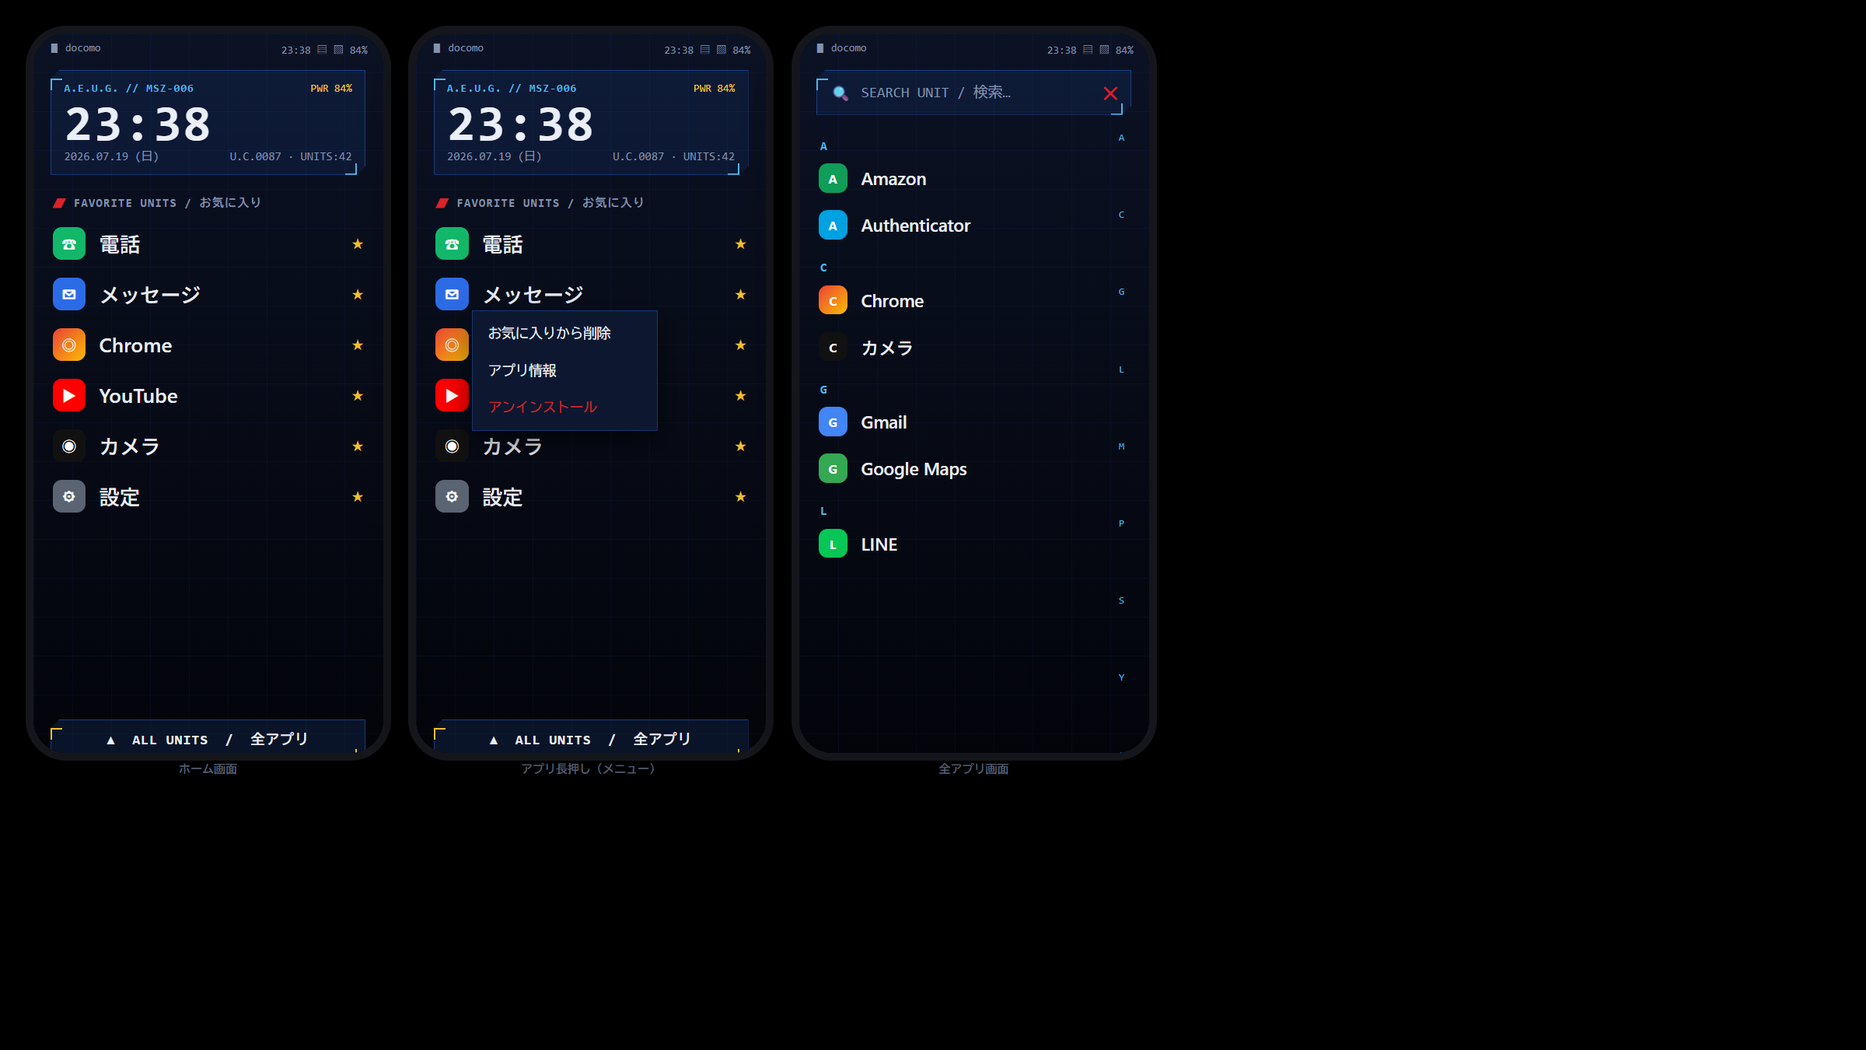
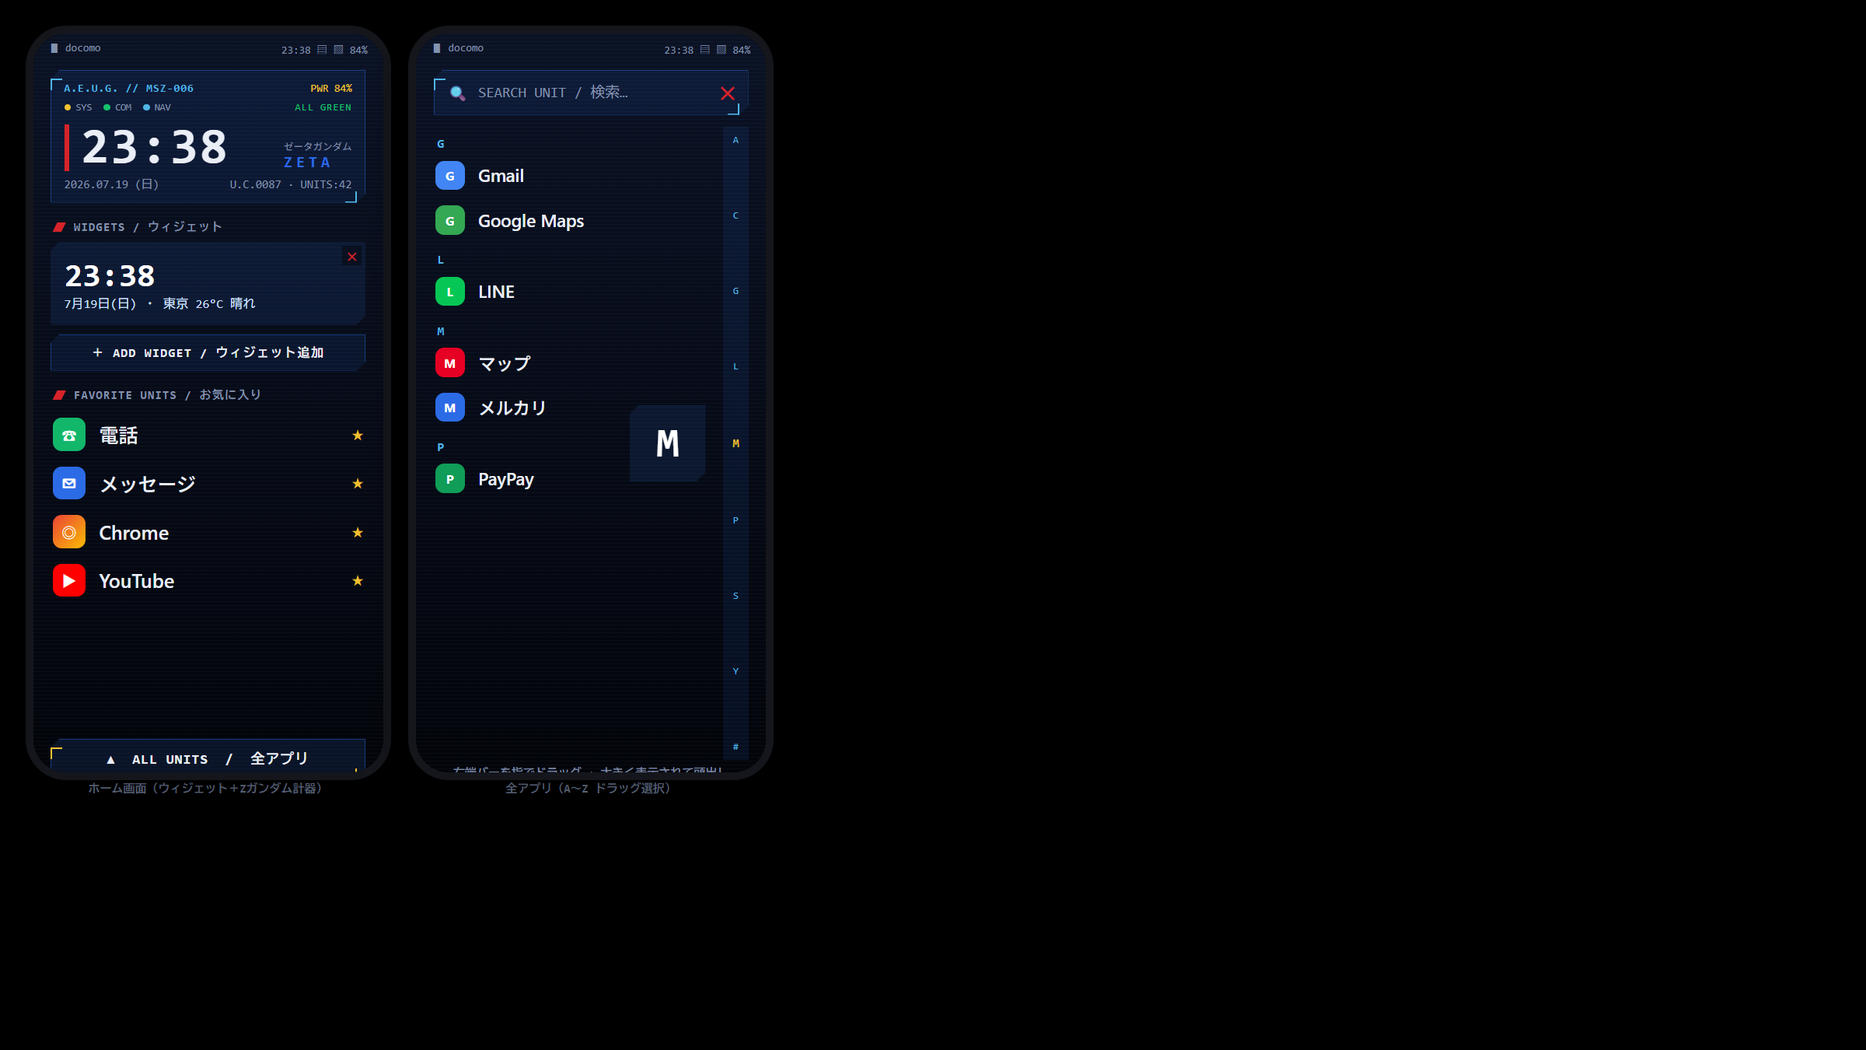
Pin favorite apps above A-Z in the all-apps list

Changed region(s): [[0.0, 0.0, 0.625, 0.7778], [0.0312, 0.0933, 0.1875, 0.5911], [0.3438, 0.1244, 0.375, 0.1556]]

diff --git a/preview/preview.html b/preview/preview.html
@@ -6,7 +6,7 @@
   :root{
     --bg:#04060C; --scrim1:#0B1224; --scrim2:#03040A;
     --blue:#2C6BE6; --cyan:#4FB6E6; --red:#D8232A; --yellow:#F2C230;
-    --white:#EAEEF6; --dim:#8393AE;
+    --green:#15C26B; --white:#EAEEF6; --dim:#8393AE;
     --panel:rgba(44,107,230,.10); --panelStrong:rgba(22,48,94,.35);
     --border:rgba(44,107,230,.45);
     --mono:"Consolas","SF Mono","DejaVu Sans Mono",monospace;
@@ -14,21 +14,17 @@
   *{box-sizing:border-box;margin:0;padding:0}
   body{background:#000;display:flex;gap:34px;padding:34px;font-family:Segoe UI,Roboto,Arial,sans-serif}
   .phone{
-    width:360px;height:740px;border-radius:34px;overflow:hidden;position:relative;
+    width:360px;height:760px;border-radius:34px;overflow:hidden;position:relative;
     background:linear-gradient(180deg,var(--scrim1),var(--scrim2));
     box-shadow:0 0 0 8px #14161c,0 20px 60px rgba(0,0,0,.6);
   }
-  /* faint grid */
-  .phone::before{content:"";position:absolute;inset:0;
-    background-image:linear-gradient(rgba(44,107,230,.06) 1px,transparent 1px),
-                     linear-gradient(90deg,rgba(44,107,230,.06) 1px,transparent 1px);
-    background-size:40px 40px;pointer-events:none}
+  .phone::before{content:"";position:absolute;inset:0;pointer-events:none;
+    background:repeating-linear-gradient(180deg,rgba(79,182,230,.05) 0 1px,transparent 1px 4px)}
   .statusbar{display:flex;justify-content:space-between;color:var(--dim);
     font-family:var(--mono);font-size:11px;padding:8px 16px 0}
   .wrap{position:relative;padding:6px 18px 16px;height:100%;display:flex;flex-direction:column}
 
-  .hud{position:relative;padding:12px 14px;margin-top:8px;
-    background:var(--panel);
+  .hud{position:relative;padding:12px 14px;margin-top:8px;background:var(--panel);
     clip-path:polygon(9px 0,100% 0,100% calc(100% - 9px),calc(100% - 9px) 100%,0 100%,0 9px);
     outline:1px solid var(--border);outline-offset:-1px}
   .hud.strong{background:var(--panelStrong)}
@@ -37,144 +33,139 @@
   .brk.br{bottom:0;right:9px;border-bottom:2px solid var(--cyan);border-right:2px solid var(--cyan)}
   .brk.y.tl{border-color:var(--yellow)} .brk.y.br{border-color:var(--yellow)}
 
-  .row1{display:flex;justify-content:space-between;align-items:center}
+  .row{display:flex;align-items:center}
+  .between{justify-content:space-between}
   .tag{color:var(--cyan);font-family:var(--mono);font-size:11px;font-weight:700;letter-spacing:1px}
   .pwr{color:var(--yellow);font-family:var(--mono);font-size:11px}
-  .clock{color:var(--white);font-family:var(--mono);font-size:52px;font-weight:800;letter-spacing:2px;line-height:1.05;margin-top:2px}
-  .row2{display:flex;justify-content:space-between;color:var(--dim);font-family:var(--mono);font-size:12px}
+  .dot{width:7px;height:7px;border-radius:50%;display:inline-block;margin-right:5px}
+  .st{color:var(--dim);font-family:var(--mono);font-size:10px;margin-right:12px;display:flex;align-items:center}
+  .green{color:var(--green);font-family:var(--mono);font-size:10px;letter-spacing:1px}
+  .hazard{width:5px;height:48px;background:var(--red);margin-right:12px}
+  .clock{color:var(--white);font-family:var(--mono);font-size:52px;font-weight:800;letter-spacing:2px;line-height:1}
+  .zeta{color:var(--blue);font-family:var(--mono);font-size:16px;font-weight:800;letter-spacing:4px}
+  .kana{color:var(--dim);font-size:10px;text-align:right}
+  .sub{display:flex;justify-content:space-between;color:var(--dim);font-family:var(--mono);font-size:12px;margin-top:6px}
 
-  .section{display:flex;align-items:center;gap:8px;margin:22px 2px 8px}
-  .skew{width:14px;height:10px;background:var(--red);
-    clip-path:polygon(5px 0,100% 0,calc(100% - 5px) 100%,0 100%)}
+  .section{display:flex;align-items:center;gap:8px;margin:18px 2px 8px}
+  .skew{width:14px;height:10px;background:var(--red);clip-path:polygon(5px 0,100% 0,calc(100% - 5px) 100%,0 100%)}
   .section span{color:var(--dim);font-family:var(--mono);font-size:12px;font-weight:700;letter-spacing:1px}
 
-  .app{display:flex;align-items:center;gap:14px;padding:9px 2px}
-  .ic{width:34px;height:34px;border-radius:9px;flex:0 0 auto;display:flex;align-items:center;justify-content:center;
-    color:#fff;font-weight:700;font-size:15px}
-  .app .nm{color:var(--white);font-size:21px;font-weight:500;flex:1;white-space:nowrap;overflow:hidden;text-overflow:ellipsis}
+  .widget{position:relative;background:var(--panelStrong);outline:1px solid var(--border);padding:14px;
+    clip-path:polygon(9px 0,100% 0,100% calc(100% - 9px),calc(100% - 9px) 100%,0 100%,0 9px)}
+  .widget .wclock{color:#fff;font:800 34px var(--mono)}
+  .widget .wsub{color:#cfe0ff;font:13px var(--mono);margin-top:2px}
+  .widget .wx{position:absolute;top:4px;right:4px;width:20px;height:20px;background:rgba(0,0,0,.4);color:var(--red);
+    display:flex;align-items:center;justify-content:center;font-weight:700;font-size:11px}
+
+  .addbtn{position:relative;text-align:center;padding:11px;margin-top:10px;background:var(--panel);
+    color:var(--white);font-family:var(--mono);font-weight:700;letter-spacing:1px;font-size:13px;
+    clip-path:polygon(9px 0,100% 0,100% calc(100% - 9px),calc(100% - 9px) 100%,0 100%,0 9px);
+    outline:1px solid var(--border);outline-offset:-1px}
+
+  .app{display:flex;align-items:center;gap:14px;padding:8px 2px}
+  .ic{width:34px;height:34px;border-radius:9px;flex:0 0 auto;display:flex;align-items:center;justify-content:center;color:#fff;font-weight:700;font-size:15px}
+  .app .nm{color:var(--white);font-size:20px;font-weight:500;flex:1}
   .star{color:var(--yellow);font-size:12px}
   .small .ic{width:30px;height:30px;font-size:13px}
   .small .nm{font-size:18px}
 
   .spacer{flex:1}
-  .allbtn{position:relative;text-align:center;padding:13px;background:var(--panelStrong);
-    color:var(--white);font-family:var(--mono);font-weight:700;letter-spacing:1px;font-size:14px;
+  .allbtn{position:relative;text-align:center;padding:13px;background:var(--panelStrong);color:var(--white);
+    font-family:var(--mono);font-weight:700;letter-spacing:1px;font-size:14px;
     clip-path:polygon(9px 0,100% 0,100% calc(100% - 9px),calc(100% - 9px) 100%,0 100%,0 9px);
     outline:1px solid var(--border);outline-offset:-1px}
 
-  /* all apps */
   .search{position:relative;display:flex;align-items:center;gap:10px;padding:11px 14px;margin-top:8px;background:var(--panel);
-    clip-path:polygon(9px 0,100% 0,100% calc(100% - 9px),calc(100% - 9px) 100%,0 100%,0 9px);
-    outline:1px solid var(--border);outline-offset:-1px}
+    clip-path:polygon(9px 0,100% 0,100% calc(100% - 9px),calc(100% - 9px) 100%,0 100%,0 9px);outline:1px solid var(--border);outline-offset:-1px}
   .search .ph{color:var(--dim);font-family:var(--mono);font-size:15px;flex:1}
   .search .x{color:var(--red);font-weight:700;font-size:18px}
   .list{position:relative;display:flex;margin-top:12px;flex:1;overflow:hidden}
   .col{flex:1}
-  .hdr{color:var(--cyan);font-family:var(--mono);font-size:13px;font-weight:700;margin:12px 0 2px 4px}
-  .az{width:20px;display:flex;flex-direction:column;justify-content:space-between;align-items:center;padding-top:6px}
+  .hdr{color:var(--cyan);font-family:var(--mono);font-size:13px;font-weight:700;margin:10px 0 2px 4px}
+  .az{width:26px;background:var(--panel);display:flex;flex-direction:column;justify-content:space-between;align-items:center;padding:8px 0}
   .az b{color:var(--cyan);font-family:var(--mono);font-size:10px;font-weight:400}
-  .title{position:absolute;bottom:8px;left:0;right:0;text-align:center;color:#555;font-family:var(--mono);font-size:11px}
+  .az b.on{color:var(--yellow);font-weight:700;font-size:12px}
+  .bubble{position:absolute;right:44px;top:50%;transform:translateY(-50%);width:78px;height:78px;background:var(--panelStrong);
+    outline:1px solid var(--border);display:flex;align-items:center;justify-content:center;color:#fff;font:800 42px var(--mono);
+    clip-path:polygon(9px 0,100% 0,100% calc(100% - 9px),calc(100% - 9px) 100%,0 100%,0 9px)}
   .label{color:#7c86a0;font:600 12px var(--mono);text-align:center;margin-top:10px}
-  .menu{position:absolute;left:40px;top:44px;z-index:5;min-width:190px;padding:4px 0;
-    background:#0d1830;outline:1px solid var(--border);box-shadow:0 10px 30px rgba(0,0,0,.6)}
-  .menu .mi{color:var(--white);font-family:var(--mono);font-size:14px;padding:11px 16px}
-  .menu .mi.red{color:var(--red)}
 </style>
 </head>
 <body>
 
-  <!-- ================= HOME ================= -->
+  <!-- ============ HOME (widgets + Zeta HUD) ============ -->
   <div>
   <div class="phone">
     <div class="statusbar"><span>▮ docomo</span><span>23:38  ▤ ▨ 84%</span></div>
     <div class="wrap">
       <div class="hud">
         <span class="brk tl"></span><span class="brk br"></span>
-        <div class="row1"><div class="tag">A.E.U.G. // MSZ-006</div><div class="pwr">PWR 84%</div></div>
-        <div class="clock">23:38</div>
-        <div class="row2"><span>2026.07.19 (日)</span><span>U.C.0087 · UNITS:42</span></div>
+        <div class="row between"><div class="tag">A.E.U.G. // MSZ-006</div><div class="pwr">PWR 84%</div></div>
+        <div class="row" style="margin-top:8px">
+          <span class="st"><i class="dot" style="background:var(--yellow)"></i>SYS</span>
+          <span class="st"><i class="dot" style="background:var(--green)"></i>COM</span>
+          <span class="st"><i class="dot" style="background:var(--cyan)"></i>NAV</span>
+          <span class="spacer"></span><span class="green">ALL GREEN</span>
+        </div>
+        <div class="row" style="margin-top:8px;align-items:flex-end">
+          <div class="hazard"></div>
+          <div class="clock">23:38</div>
+          <span class="spacer"></span>
+          <div><div class="kana">ゼータガンダム</div><div class="zeta">ZETA</div></div>
+        </div>
+        <div class="sub"><span>2026.07.19 (日)</span><span>U.C.0087 · UNITS:42</span></div>
       </div>
 
-      <div class="section"><span class="skew"></span><span>FAVORITE UNITS / お気に入り</span></div>
+      <div class="section"><span class="skew"></span><span>WIDGETS / ウィジェット</span></div>
+      <div class="widget">
+        <div class="wx">✕</div>
+        <div class="wclock">23:38</div>
+        <div class="wsub">7月19日(日) ・ 東京 26°C 晴れ</div>
+      </div>
+      <div class="addbtn">＋ ADD WIDGET / ウィジェット追加</div>
 
+      <div class="section"><span class="skew"></span><span>FAVORITE UNITS / お気に入り</span></div>
       <div class="app"><div class="ic" style="background:#12B76A">☎</div><div class="nm">電話</div><span class="star">★</span></div>
       <div class="app"><div class="ic" style="background:#2C6BE6">✉</div><div class="nm">メッセージ</div><span class="star">★</span></div>
       <div class="app"><div class="ic" style="background:linear-gradient(135deg,#EA4335,#FBBC05)">◎</div><div class="nm">Chrome</div><span class="star">★</span></div>
       <div class="app"><div class="ic" style="background:#FF0000">▶</div><div class="nm">YouTube</div><span class="star">★</span></div>
-      <div class="app"><div class="ic" style="background:#111">◉</div><div class="nm">カメラ</div><span class="star">★</span></div>
-      <div class="app"><div class="ic" style="background:#5A6472">⚙</div><div class="nm">設定</div><span class="star">★</span></div>
 
       <div class="spacer"></div>
       <div class="allbtn"><span class="brk y tl"></span><span class="brk y br"></span>▲&nbsp;&nbsp;ALL UNITS&nbsp;&nbsp;/&nbsp;&nbsp;全アプリ</div>
     </div>
   </div>
-  <div class="label">ホーム画面</div>
+  <div class="label">ホーム画面（ウィジェット＋Zガンダム計器）</div>
   </div>
 
-  <!-- ================= LONG PRESS MENU ================= -->
+  <!-- ============ ALL APPS (A-Z drag) ============ -->
   <div>
   <div class="phone">
     <div class="statusbar"><span>▮ docomo</span><span>23:38  ▤ ▨ 84%</span></div>
     <div class="wrap">
-      <div class="hud">
-        <span class="brk tl"></span><span class="brk br"></span>
-        <div class="row1"><div class="tag">A.E.U.G. // MSZ-006</div><div class="pwr">PWR 84%</div></div>
-        <div class="clock">23:38</div>
-        <div class="row2"><span>2026.07.19 (日)</span><span>U.C.0087 · UNITS:42</span></div>
-      </div>
-      <div class="section"><span class="skew"></span><span>FAVORITE UNITS / お気に入り</span></div>
-      <div class="app"><div class="ic" style="background:#12B76A">☎</div><div class="nm">電話</div><span class="star">★</span></div>
-      <div class="app" style="position:relative">
-        <div class="ic" style="background:#2C6BE6">✉</div><div class="nm">メッセージ</div><span class="star">★</span>
-        <div class="menu">
-          <div class="mi">お気に入りから削除</div>
-          <div class="mi">アプリ情報</div>
-          <div class="mi red">アンインストール</div>
-        </div>
-      </div>
-      <div class="app"><div class="ic" style="background:linear-gradient(135deg,#EA4335,#FBBC05)">◎</div><div class="nm">Chrome</div><span class="star">★</span></div>
-      <div class="app"><div class="ic" style="background:#FF0000">▶</div><div class="nm">YouTube</div><span class="star">★</span></div>
-      <div class="app"><div class="ic" style="background:#111">◉</div><div class="nm">カメラ</div><span class="star">★</span></div>
-      <div class="app"><div class="ic" style="background:#5A6472">⚙</div><div class="nm">設定</div><span class="star">★</span></div>
-      <div class="spacer"></div>
-      <div class="allbtn"><span class="brk y tl"></span><span class="brk y br"></span>▲&nbsp;&nbsp;ALL UNITS&nbsp;&nbsp;/&nbsp;&nbsp;全アプリ</div>
-    </div>
-  </div>
-  <div class="label">アプリ長押し（メニュー）</div>
-  </div>
-
-  <!-- ================= ALL APPS ================= -->
-  <div>
-  <div class="phone">
-    <div class="statusbar"><span>▮ docomo</span><span>23:38  ▤ ▨ 84%</span></div>
-    <div class="wrap">
-      <div class="search">
-        <span class="brk tl"></span><span class="brk br"></span>
-        <span>🔍</span><span class="ph">SEARCH UNIT / 検索…</span><span class="x">✕</span>
-      </div>
-
+      <div class="search"><span class="brk tl"></span><span class="brk br"></span>
+        <span>🔍</span><span class="ph">SEARCH UNIT / 検索…</span><span class="x">✕</span></div>
       <div class="list">
         <div class="col">
-          <div class="hdr">A</div>
-          <div class="app small"><div class="ic" style="background:#0F9D58">A</div><div class="nm">Amazon</div></div>
-          <div class="app small"><div class="ic" style="background:#00A1E0">A</div><div class="nm">Authenticator</div></div>
-          <div class="hdr">C</div>
-          <div class="app small"><div class="ic" style="background:linear-gradient(135deg,#EA4335,#FBBC05)">C</div><div class="nm">Chrome</div></div>
-          <div class="app small"><div class="ic" style="background:#111">C</div><div class="nm">カメラ</div></div>
           <div class="hdr">G</div>
           <div class="app small"><div class="ic" style="background:#4285F4">G</div><div class="nm">Gmail</div></div>
           <div class="app small"><div class="ic" style="background:#34A853">G</div><div class="nm">Google Maps</div></div>
           <div class="hdr">L</div>
           <div class="app small"><div class="ic" style="background:#06C755">L</div><div class="nm">LINE</div></div>
+          <div class="hdr">M</div>
+          <div class="app small"><div class="ic" style="background:#E60023">M</div><div class="nm">マップ</div></div>
+          <div class="app small"><div class="ic" style="background:#2C6BE6">M</div><div class="nm">メルカリ</div></div>
+          <div class="hdr">P</div>
+          <div class="app small"><div class="ic" style="background:#0F9D58">P</div><div class="nm">PayPay</div></div>
         </div>
         <div class="az">
-          <b>A</b><b>C</b><b>G</b><b>L</b><b>M</b><b>P</b><b>S</b><b>Y</b><b>#</b>
+          <b>A</b><b>C</b><b>G</b><b>L</b><b class="on">M</b><b>P</b><b>S</b><b>Y</b><b>#</b>
         </div>
+        <div class="bubble">M</div>
       </div>
-      <div class="title">全アプリ（右端バーで A〜Z ジャンプ）</div>
+      <div class="label" style="margin-top:6px">右端バーを指でドラッグ → 大きく表示されて頭出し</div>
     </div>
   </div>
-  <div class="label">全アプリ画面</div>
+  <div class="label">全アプリ（A〜Z ドラッグ選択）</div>
   </div>
 
 </body>

diff --git a/app/src/main/java/com/uc0079/launcher/ui/LauncherApp.kt b/app/src/main/java/com/uc0079/launcher/ui/LauncherApp.kt
@@ -365,6 +365,9 @@ private fun AllUnitsButton(onOpenAll: () -> Unit) {
 
 private data class ListRow(val header: Char?, val app: AppInfo?)
 
+/** Header marker for the favorites block pinned above A–Z. */
+private const val FAV_HEADER = '\u2605' // ★
+
 @Composable
 private fun AllAppsScreen(vm: LauncherViewModel, onClose: () -> Unit) {
     var query by remember { mutableStateOf("") }
@@ -372,21 +375,29 @@ private fun AllAppsScreen(vm: LauncherViewModel, onClose: () -> Unit) {
     val listState = rememberLazyListState()
     val scope = rememberCoroutineScope()
 
+    val favorites = vm.favoriteApps
+
     val filtered = remember(vm.apps, query) {
         if (query.isBlank()) vm.apps
         else vm.apps.filter { it.label.contains(query.trim(), ignoreCase = true) }
     }
 
-    val rows = remember(filtered, query) {
+    val rows = remember(filtered, query, favorites) {
         if (query.isNotBlank()) {
             filtered.map { ListRow(null, it) }
         } else {
+            val favInList = favorites.filter { fav -> filtered.any { it.packageName == fav.packageName } }
             val grouped = LinkedHashMap<Char, MutableList<AppInfo>>()
             filtered.forEach { app ->
                 val c = firstLetter(app.label)
                 grouped.getOrPut(c) { mutableListOf() }.add(app)
             }
             buildList {
+                // ★ Favorites pinned at the top of A–Z
+                if (favInList.isNotEmpty()) {
+                    add(ListRow(FAV_HEADER, null))
+                    favInList.forEach { add(ListRow(null, it)) }
+                }
                 grouped.forEach { (letter, list) ->
                     add(ListRow(letter, null))
                     list.forEach { add(ListRow(null, it)) }
@@ -424,14 +435,25 @@ private fun AllAppsScreen(vm: LauncherViewModel, onClose: () -> Unit) {
                     items(rows.size) { i ->
                         val row = rows[i]
                         if (row.header != null) {
-                            Text(
-                                text = row.header.toString(),
-                                color = G.Cyan,
-                                fontSize = 13.sp,
-                                fontWeight = FontWeight.Bold,
-                                fontFamily = FontFamily.Monospace,
-                                modifier = Modifier.padding(start = 6.dp, top = 14.dp, bottom = 4.dp)
-                            )
+                            if (row.header == FAV_HEADER) {
+                                Text(
+                                    text = "\u2605  FAVORITES / \u304A\u6C17\u306B\u5165\u308A",
+                                    color = G.Yellow,
+                                    fontSize = 13.sp,
+                                    fontWeight = FontWeight.Bold,
+                                    fontFamily = FontFamily.Monospace,
+                                    modifier = Modifier.padding(start = 6.dp, top = 10.dp, bottom = 4.dp)
+                                )
+                            } else {
+                                Text(
+                                    text = row.header.toString(),
+                                    color = G.Cyan,
+                                    fontSize = 13.sp,
+                                    fontWeight = FontWeight.Bold,
+                                    fontFamily = FontFamily.Monospace,
+                                    modifier = Modifier.padding(start = 6.dp, top = 14.dp, bottom = 4.dp)
+                                )
+                            }
                         } else if (row.app != null) {
                             val app = row.app
                             AppRow(
@@ -468,13 +490,16 @@ private fun AllAppsScreen(vm: LauncherViewModel, onClose: () -> Unit) {
                         .align(Alignment.CenterEnd)
                         .padding(end = 42.dp)
                         .size(78.dp)
-                        .hudFrame(fill = G.PanelStrong, bracket = G.Cyan),
+                        .hudFrame(
+                            fill = G.PanelStrong,
+                            bracket = if (c == FAV_HEADER) G.Yellow else G.Cyan
+                        ),
                     contentAlignment = Alignment.Center
                 ) {
                     Text(
                         text = c.toString(),
-                        color = G.White,
-                        fontSize = 42.sp,
+                        color = if (c == FAV_HEADER) G.Yellow else G.White,
+                        fontSize = if (c == FAV_HEADER) 36.sp else 42.sp,
                         fontWeight = FontWeight.Bold,
                         fontFamily = FontFamily.Monospace
                     )
@@ -579,11 +604,15 @@ private fun AlphabetScroller(
     ) {
         letters.forEach { c ->
             val on = c == activeLetter
+            val isFav = c == FAV_HEADER
             Text(
                 text = c.toString(),
-                color = if (on) G.Yellow else G.Cyan,
+                color = when {
+                    on || isFav -> G.Yellow
+                    else -> G.Cyan
+                },
                 fontSize = if (on) 12.sp else 10.sp,
-                fontWeight = if (on) FontWeight.Bold else FontWeight.Normal,
+                fontWeight = if (on || isFav) FontWeight.Bold else FontWeight.Normal,
                 fontFamily = FontFamily.Monospace
             )
         }
